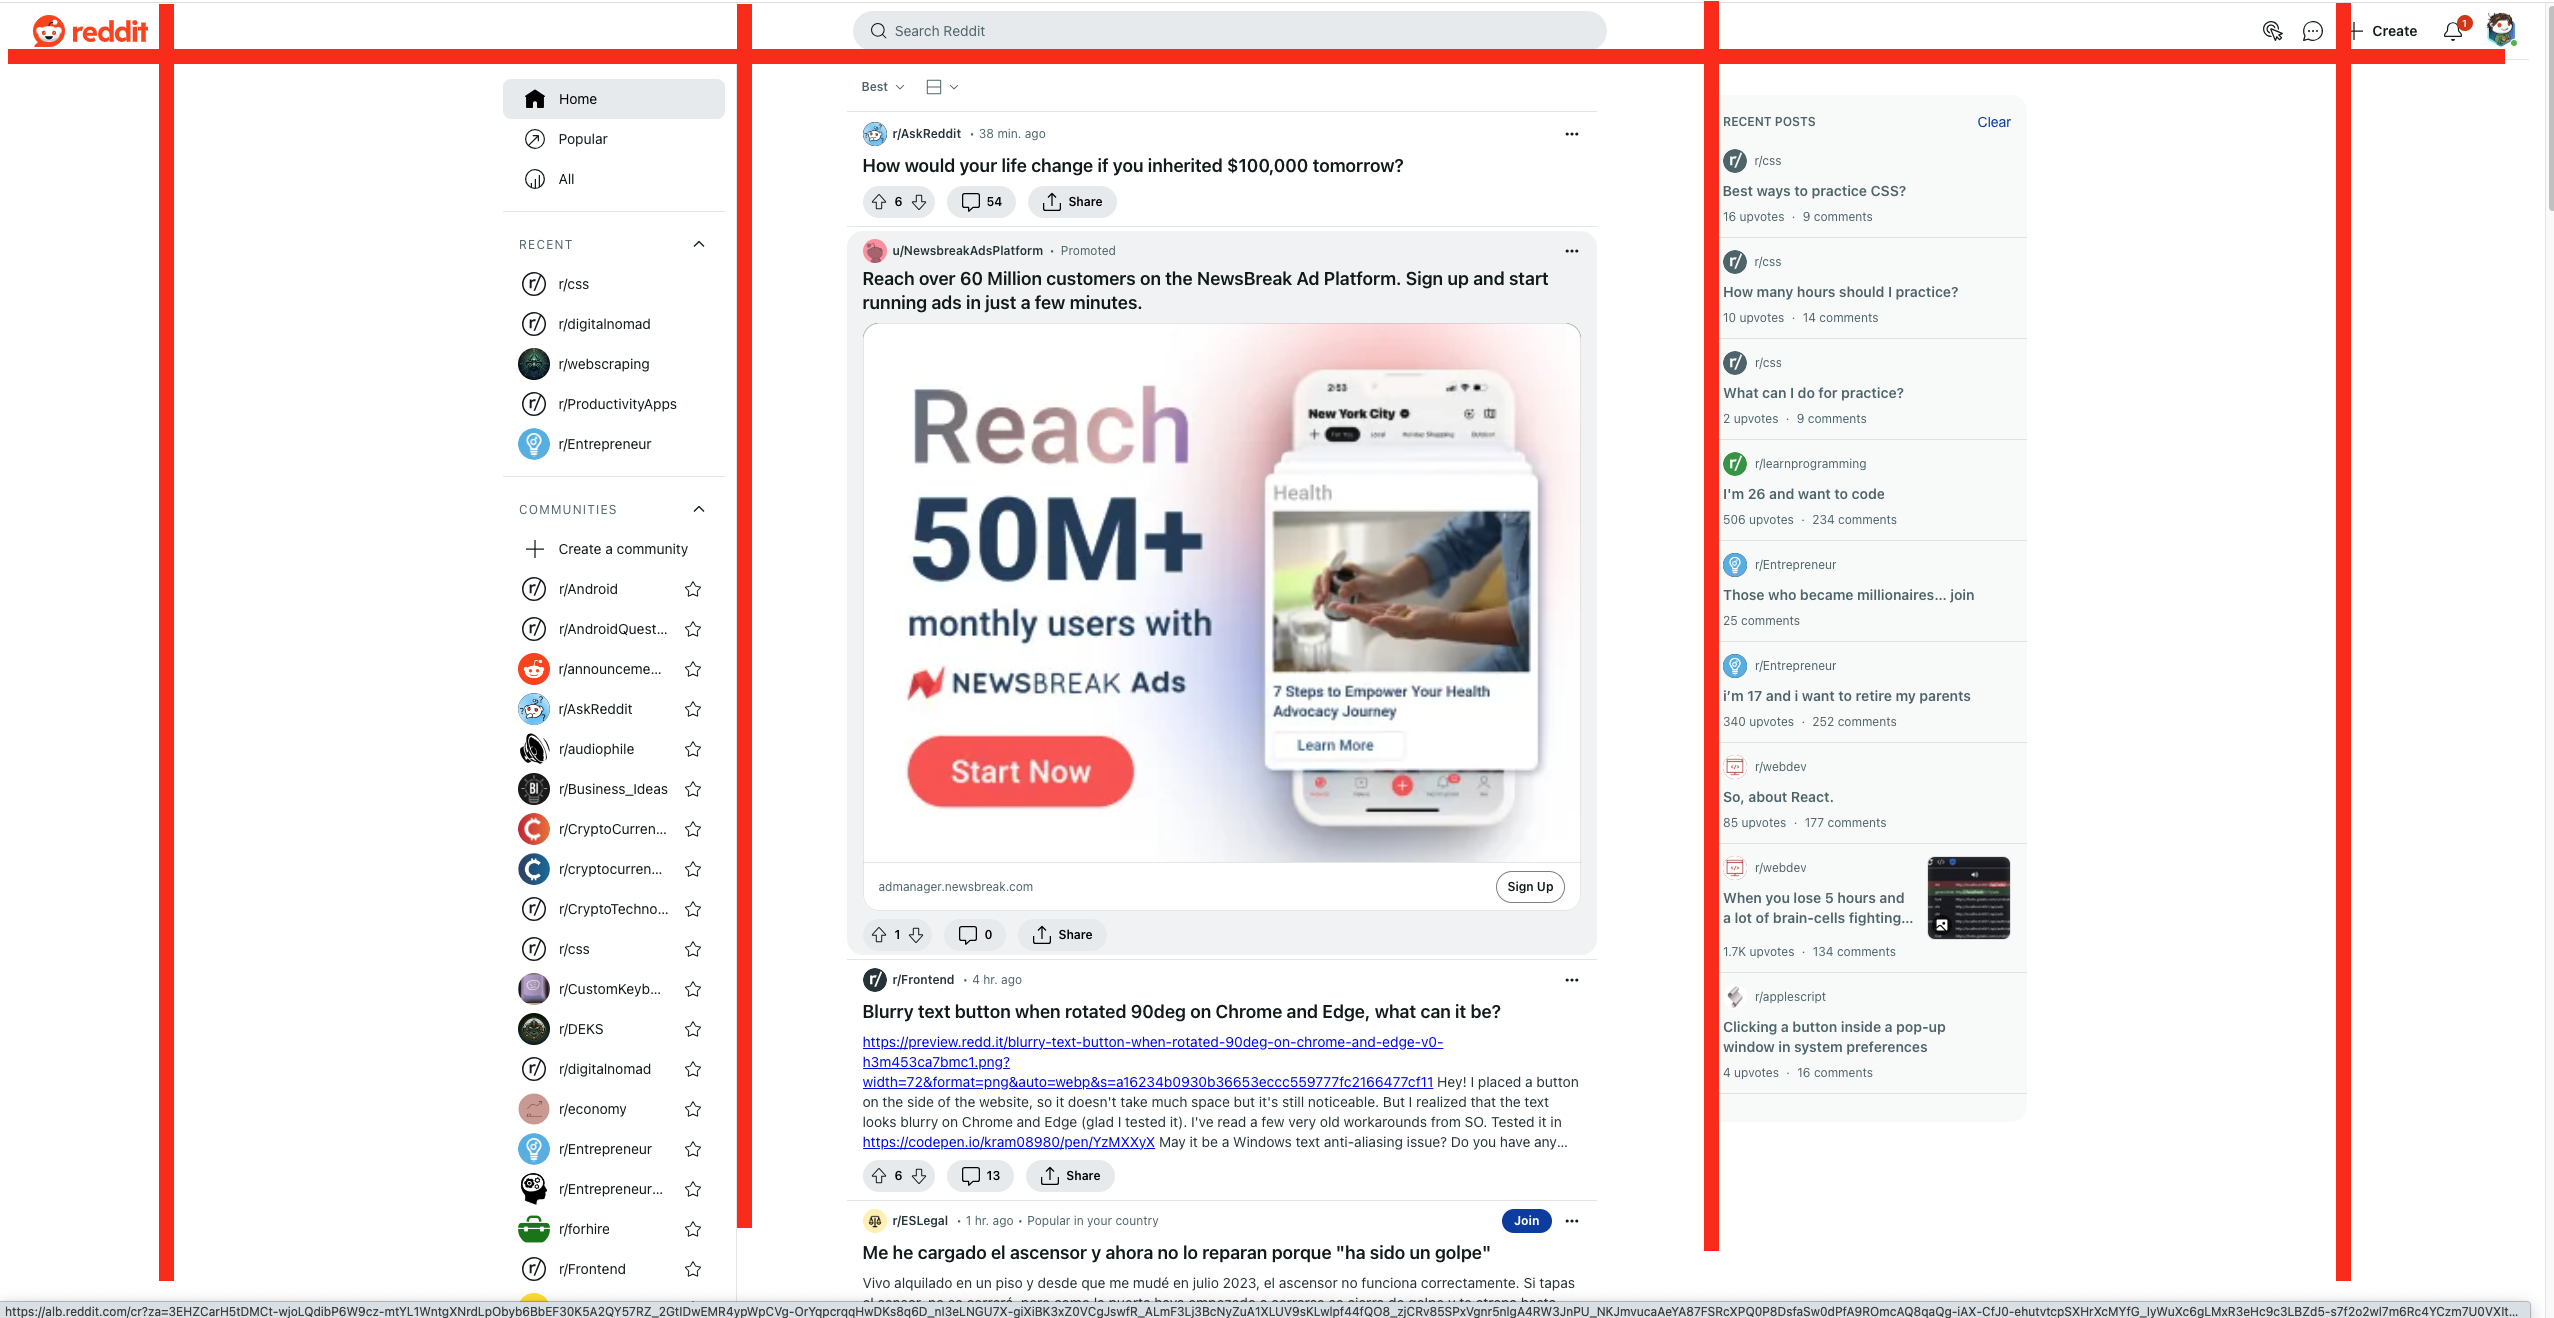
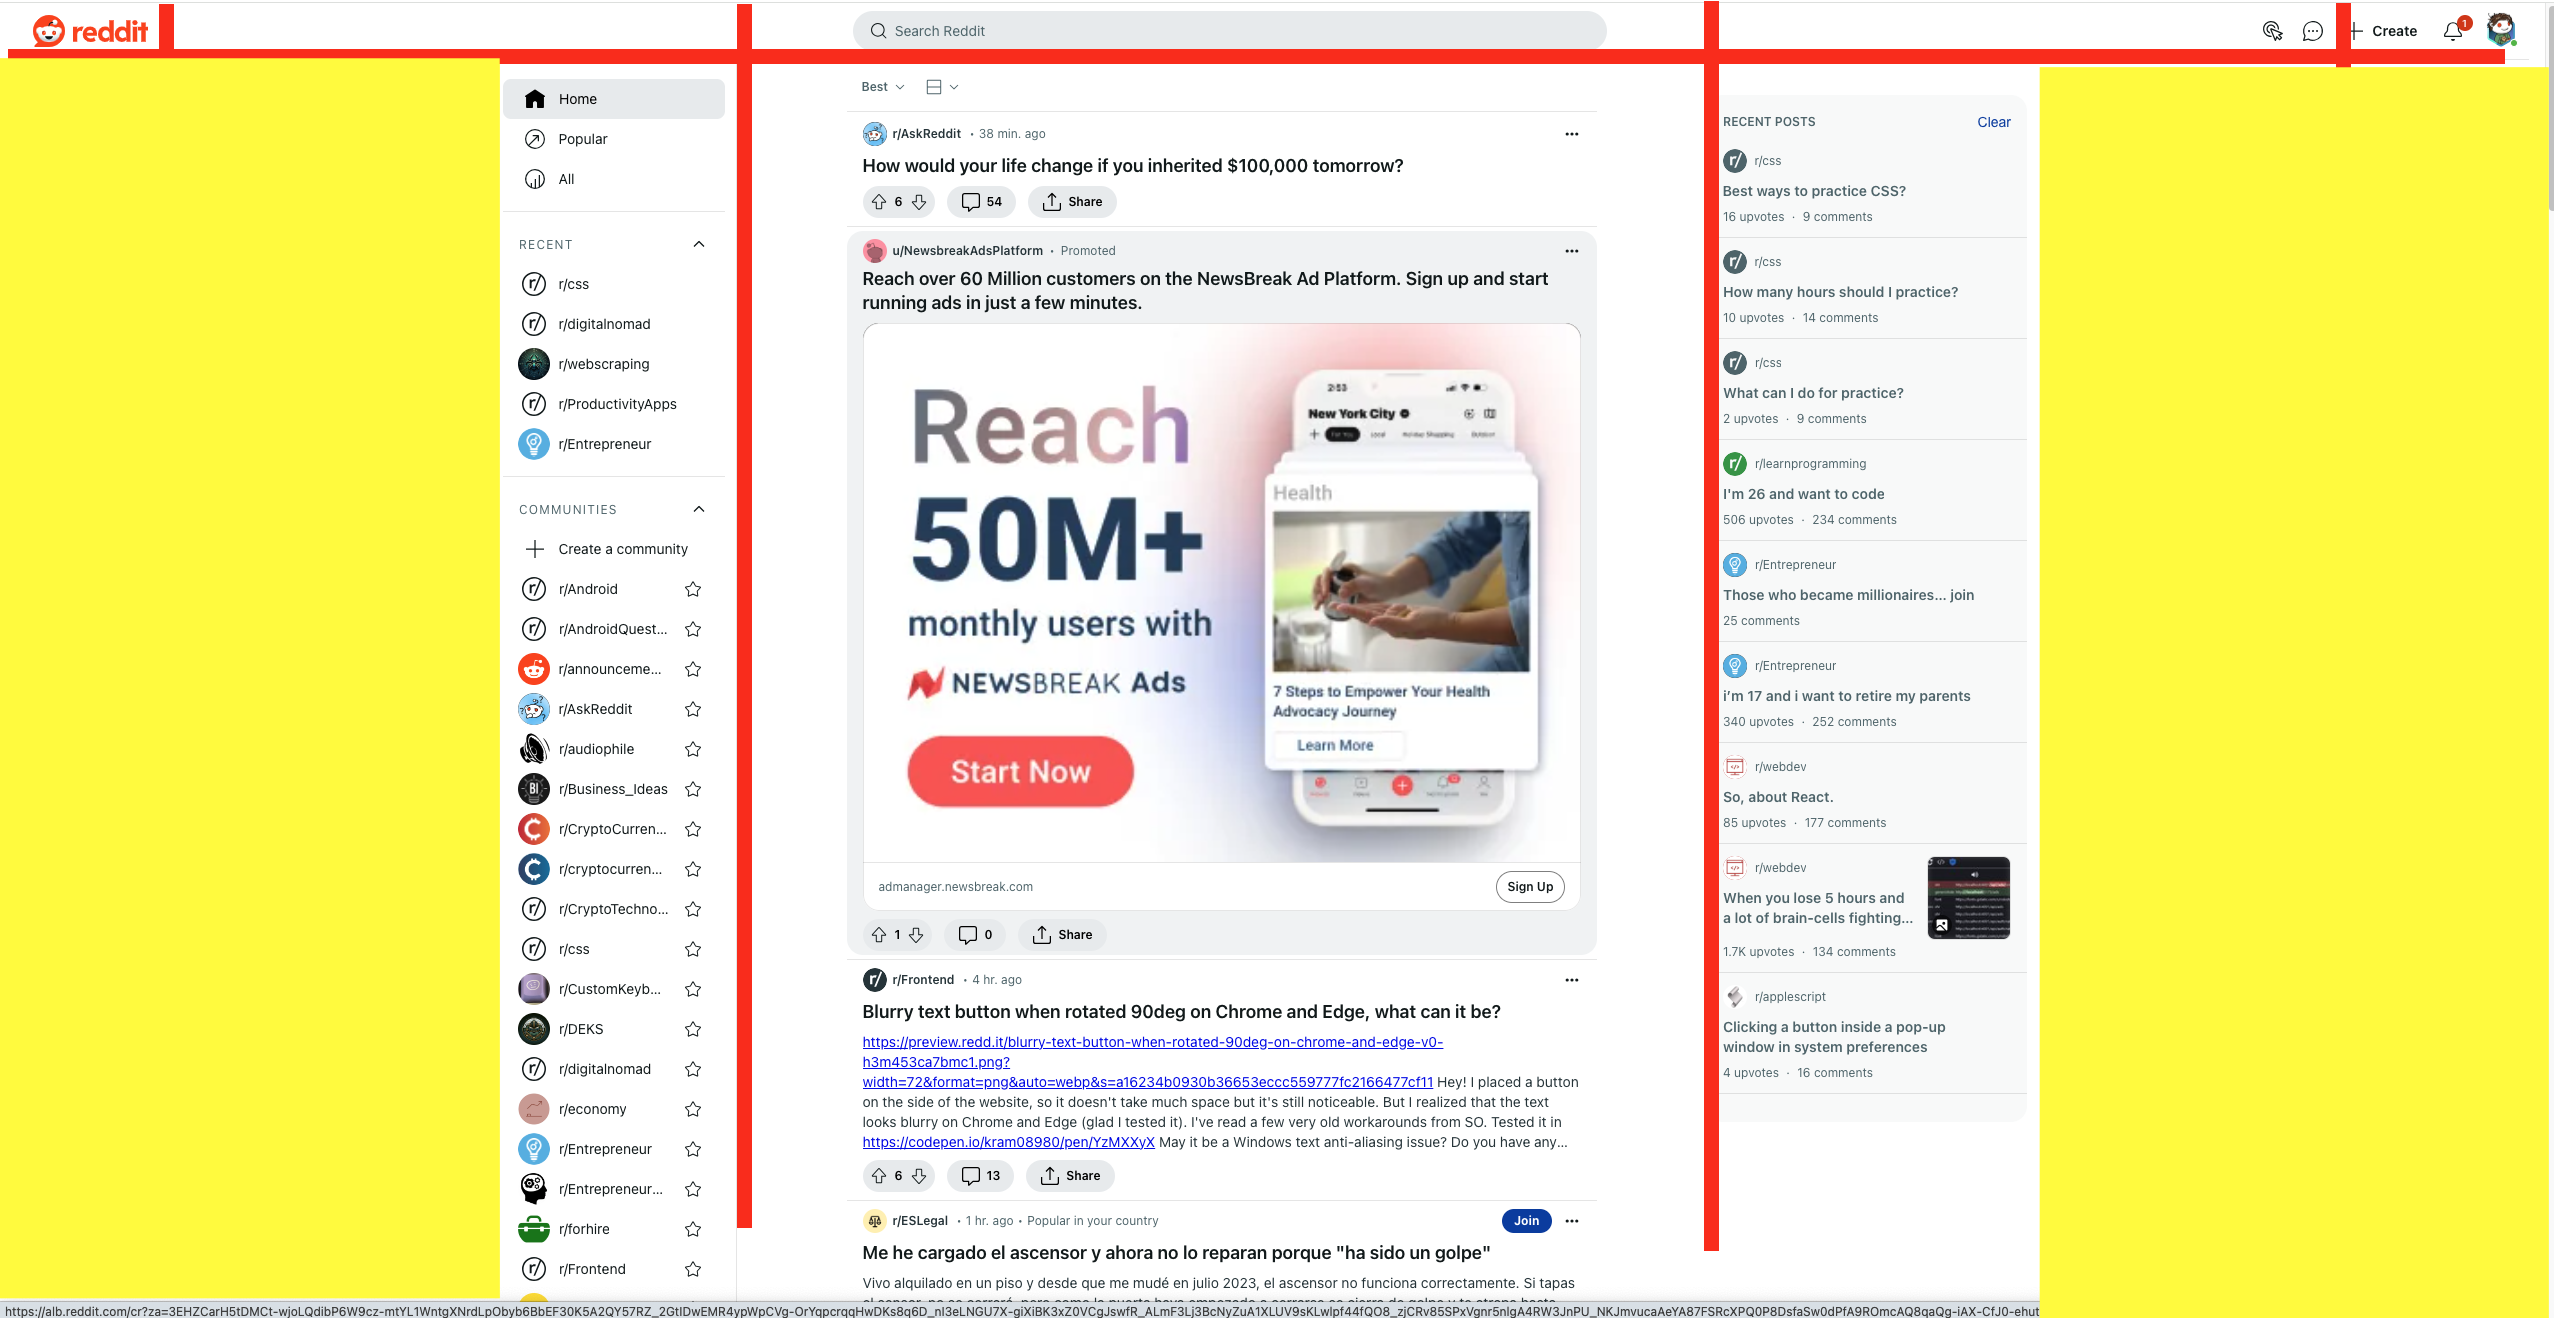
layout and a little bit of items

diff --git a/index.html b/index.html
@@ -10,7 +10,41 @@
         </nav>
         <section id="menu-left">
             <div class="menu-left">
+                <div class="menu-left__nav">
+                    <ul class="menu-left__list">
+                        <li class="menu-left__item">
+                            <img class="menu-left__item-img" src="icons8-home-50.png">
+                            <a>Home</a>
+                        </li>
+                        <li class="menu-left__item">
+                            <img class="menu-left__item-img" src="icons8-home-50.png">
+                            <a>Popular</a>
+                        </li>
+                        <li class="menu-left__item">
+                            <img class="menu-left__item-img" src="icons8-home-50.png">
+                            <a>All</a>
+                        </li>
+                    </ul>
+                </div>
+                <div class="menu-left__recent">
+                    <ul class="menu-left__list">
+                        <li class="menu-left__item">
+                            <img class="menu-left__item-img" src="icons8-home-50.png">
+                            <a>r/css</a>
+                        </li>
+                        <li class="menu-left__item">
+                            <img class="menu-left__item-img" src="icons8-home-50.png">
+                            <a>r/askreddit</a>
+                        </li>
+                        <li class="menu-left__item">
+                            <img class="menu-left__item-img" src="icons8-home-50.png">
+                            <a>r/reactjs</a>
+                        </li>
+                    </ul>
+                </div>
+                <div class="menu-left__communities">
 
+                </div>
             </div>
         </section>
         <section id="main-content">

diff --git a/style.css b/style.css
@@ -6,6 +6,7 @@
     grid-template-rows: auto 1fr;
     min-height: 100vh;
     column-gap: 2rem;
+    row-gap: 1rem;
 }
 
 /* Nav */
@@ -39,12 +40,47 @@ section {
 /* Left menu */
 #menu-left {
     grid-column: 2;
+    justify-self: end;
+    width: 50%
+}
+.menu-left {
+    height: 100%;
+    width: 100%
+}
+.menu-left__item {
+    list-style-type: none;
+    display: flex;
+    align-items: center;
+    gap: 0.5rem;
+    height: 25px;
+    padding: 0.5rem 1rem;
+    background-color: transparent;
+    border-radius: 5px;
+    font-size: 1rem;
+}
+.menu-left__item:hover {
+    list-style-type: none;
+    display: flex;
+    align-items: center;
+    gap: 0.5rem;
+    height: 25px;
+    padding: 0.5rem 1rem;
+    background-color: rgb(220, 220, 220);
+    border-radius: 5px;
 }
 
+.menu-left__item-img {
+    height: 100%;
+}
+.menu-left__list {
+    padding: 0;
+}
 
 /* Right menu */
 #menu-right {
     grid-column: -3;
+    justify-self: start;
+    width: 70%
 }
 
 
